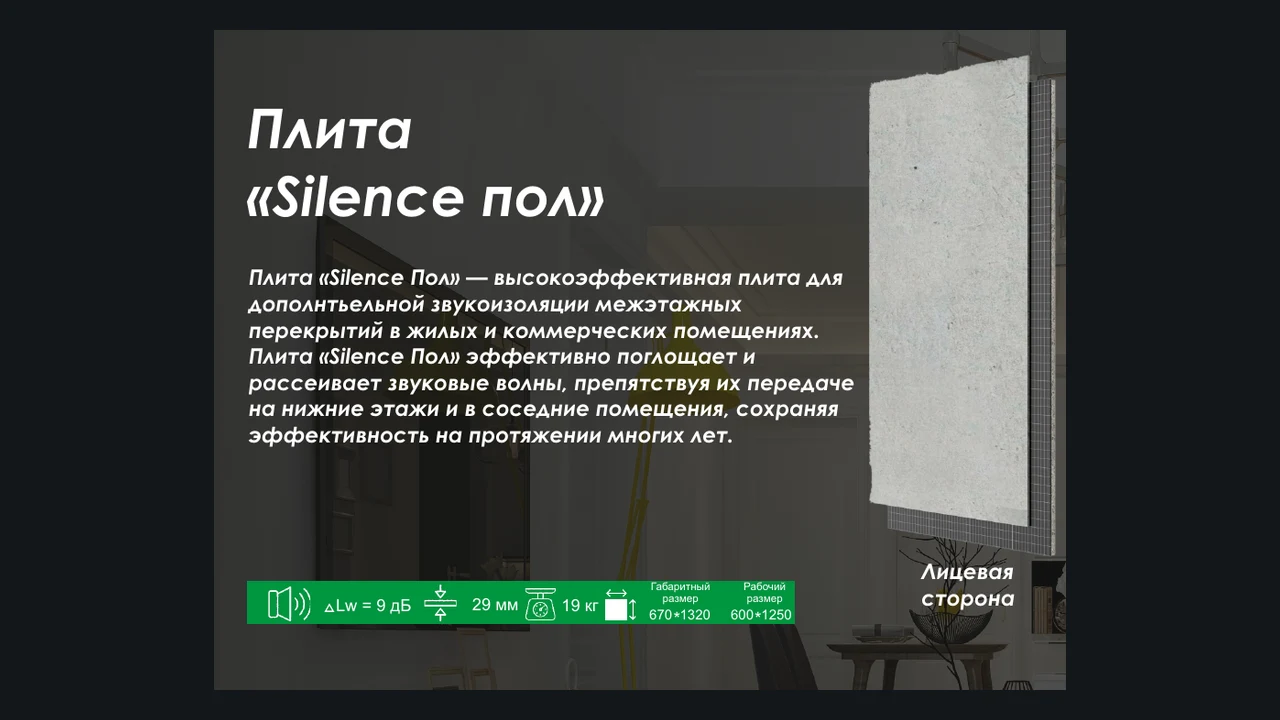
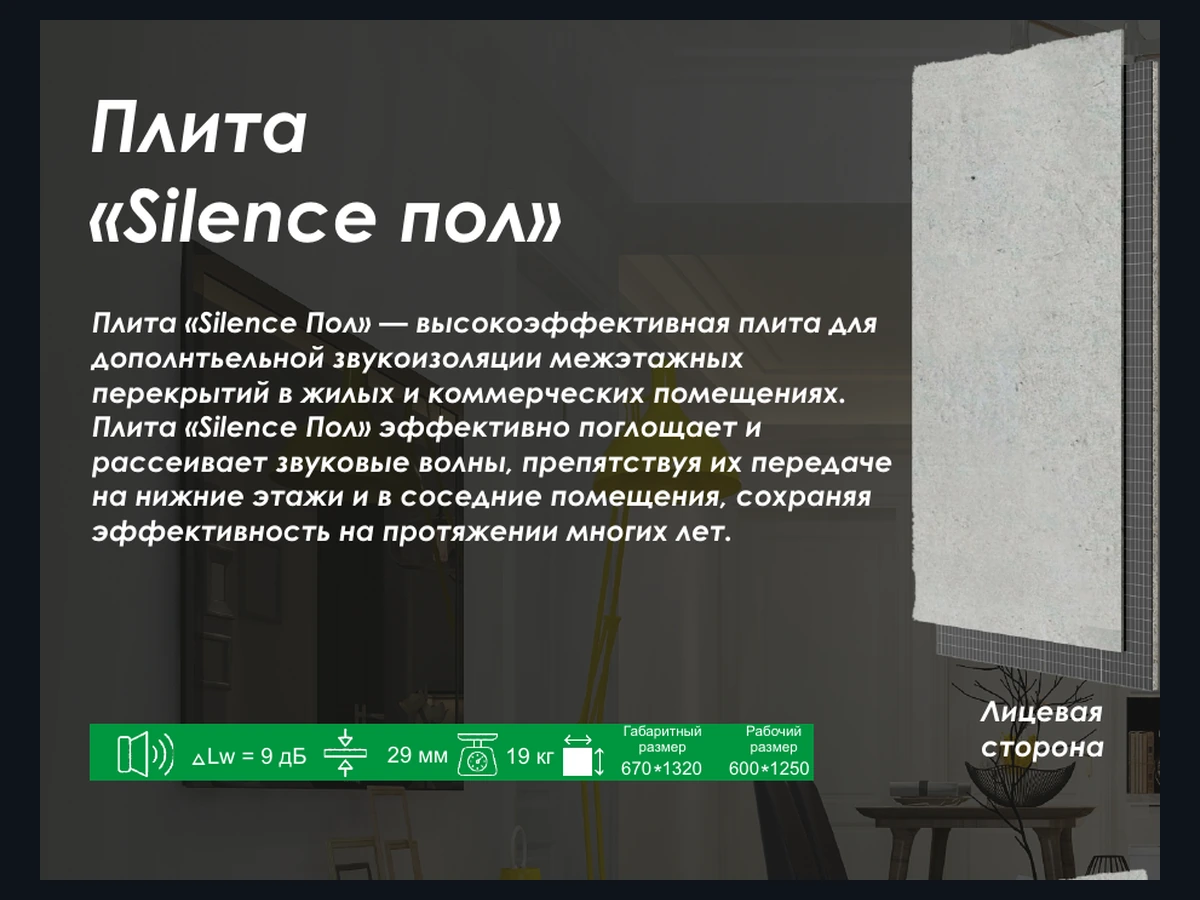
FF3

diff --git a/index.html b/index.html
@@ -181,16 +181,16 @@
           </div>
           <div class="presentation-carousel__viewport">
             <div class="presentation-carousel__track" data-carousel-track>
-              <article class="presentation-slide"><img src="assets/journal_slides/journal-04.webp" alt="SoundFiber"><div class="presentation-slide__caption"><h2>SoundFiber</h2><p>Акустическое нетканое иглопробивное полотно с высокими звукопоглощающими и демпфирующими свойствами.</p></div></article>
-              <article class="presentation-slide"><img src="assets/journal_slides/journal-05.webp" alt="VibroGuard"><div class="presentation-slide__caption"><h2>VibroGuard</h2><p>Композитный лист с демпфирующим слоем для снижения вибраций и воздушного шума.</p></div></article>
-              <article class="presentation-slide"><img src="assets/journal_slides/journal-06.webp" alt="Панель Silence стена"><div class="presentation-slide__caption"><h2>Панель «Silence стена»</h2><p>Панель дополнительной звукоизоляции стен с индексом Rw до 16 дБ в зависимости от монтажа.</p></div></article>
-              <article class="presentation-slide"><img src="assets/journal_slides/journal-07.webp" alt="Панель Silence потолок/стена"><div class="presentation-slide__caption"><h2>Панель «Silence потолок/стена»</h2><p>Решение для потолков и стен: многослойная структура, быстрый монтаж и готовность к чистовой отделке.</p></div></article>
-              <article class="presentation-slide"><img src="assets/journal_slides/journal-08.webp" alt="Плита Silence пол"><div class="presentation-slide__caption"><h2>Плита «Silence пол»</h2><p>Плита для межэтажных перекрытий, помогающая снизить передачу ударного шума на нижние этажи.</p></div></article>
-              <article class="presentation-slide"><img src="assets/journal_slides/journal-09.webp" alt="EchoGuard"><div class="presentation-slide__caption"><h2>EchoGuard</h2><p>Трёхслойная акустическая панель для шумо- и виброизоляции жилых и офисных помещений.</p></div></article>
-              <article class="presentation-slide"><img src="assets/journal_slides/journal-12.webp" alt="AcousticWood Rhomb and Hexa"><div class="presentation-slide__caption"><h2>AcousticWood Rhomb / Hexa</h2><p>Декоративно-акустические панели из натуральных материалов для выразительных интерьерных стен.</p></div></article>
-              <article class="presentation-slide"><img src="assets/journal_slides/journal-13.webp" alt="AcousticWood Line and Art"><div class="presentation-slide__caption"><h2>AcousticWood Line / Art</h2><p>Линейный рельеф и художественная композиция свободной формы для современных интерьеров.</p></div></article>
-              <article class="presentation-slide"><img src="assets/journal_slides/journal-14.webp" alt="ReverBoard Spiral and Quad"><div class="presentation-slide__caption"><h2>ReverBoard Spiral / Quad</h2><p>Интерьерные акустические панели с трёхмерной структурой для стен и потолков.</p></div></article>
-              <article class="presentation-slide"><img src="assets/journal_slides/journal-15.webp" alt="ReverBoard Rhomb and Hexa"><div class="presentation-slide__caption"><h2>ReverBoard Rhomb / Hexa</h2><p>Геометрические решения для модульных композиций и акцентных интерьерных зон.</p></div></article>
+              <article class="presentation-slide"><img src="assets/journal_slides/journal-04.webp" alt="SoundFiber — информация из журнала SILENCE"></article>
+              <article class="presentation-slide"><img src="assets/journal_slides/journal-05.webp" alt="VibroGuard — информация из журнала SILENCE"></article>
+              <article class="presentation-slide"><img src="assets/journal_slides/journal-06.webp" alt="Панель Silence стена — информация из журнала SILENCE"></article>
+              <article class="presentation-slide"><img src="assets/journal_slides/journal-07.webp" alt="Панель Silence потолок/стена — информация из журнала SILENCE"></article>
+              <article class="presentation-slide"><img src="assets/journal_slides/journal-08.webp" alt="Плита Silence пол — информация из журнала SILENCE"></article>
+              <article class="presentation-slide"><img src="assets/journal_slides/journal-09.webp" alt="EchoGuard — информация из журнала SILENCE"></article>
+              <article class="presentation-slide"><img src="assets/journal_slides/journal-12.webp" alt="AcousticWood Rhomb / Hexa — информация из журнала SILENCE"></article>
+              <article class="presentation-slide"><img src="assets/journal_slides/journal-13.webp" alt="AcousticWood Line / Art — информация из журнала SILENCE"></article>
+              <article class="presentation-slide"><img src="assets/journal_slides/journal-14.webp" alt="ReverBoard Spiral / Quad — информация из журнала SILENCE"></article>
+              <article class="presentation-slide"><img src="assets/journal_slides/journal-15.webp" alt="ReverBoard Rhomb / Hexa — информация из журнала SILENCE"></article>
             </div>
             <button class="presentation-carousel__nav presentation-carousel__nav--prev" type="button" data-carousel-prev aria-label="Предыдущий слайд">‹</button>
             <button class="presentation-carousel__nav presentation-carousel__nav--next" type="button" data-carousel-next aria-label="Следующий слайд">›</button>

diff --git a/js/ui.presentation-carousel.js b/js/ui.presentation-carousel.js
@@ -16,59 +16,83 @@
     var timer = null;
     var reduceMotion = global.matchMedia && global.matchMedia('(prefers-reduced-motion: reduce)').matches;
 
-    function show(i) {
+    function getLeft(i) {
+      return slides[i] ? slides[i].offsetLeft - track.offsetLeft : 0;
+    }
+
+    function renderDots() {
+      if (!dotsHost) return;
+      Array.prototype.forEach.call(dotsHost.children, function (dot, idx) {
+        var active = idx === index;
+        dot.classList.toggle('presentation-carousel__dot--active', active);
+        dot.setAttribute('aria-pressed', active ? 'true' : 'false');
+      });
+    }
+
+    function show(i, behavior) {
       index = (i + slides.length) % slides.length;
-      var viewport = root.querySelector('.presentation-carousel__viewport');
-      var target = slides[index].offsetLeft;
-      var maxShift = Math.max(0, track.scrollWidth - (viewport ? viewport.clientWidth : 0));
-      target = Math.min(target, maxShift);
-      track.style.transform = 'translateX(' + (-target) + 'px)';
-      if (dotsHost) {
-        Array.prototype.forEach.call(dotsHost.children, function (dot, idx) {
-          var active = idx === index;
-          dot.classList.toggle('presentation-carousel__dot--active', active);
-          dot.setAttribute('aria-pressed', active ? 'true' : 'false');
-        });
-      }
+      track.scrollTo({ left: getLeft(index), behavior: behavior || 'smooth' });
+      renderDots();
       if (global.SILENCE_TRACK) global.SILENCE_TRACK('presentation_slide_view', { value: String(index + 1) });
     }
 
     function stop() {
       if (timer) { global.clearInterval(timer); timer = null; }
     }
+
     function start() {
       stop();
-      if (reduceMotion) return;
-      timer = global.setInterval(function () { show(index + 1); }, 6000);
+      if (reduceMotion || slides.length < 2) return;
+      timer = global.setInterval(function () { show(index + 1, 'smooth'); }, 5000);
+    }
+
+    function findClosestIndex() {
+      var current = track.scrollLeft;
+      var best = 0;
+      var bestDelta = Infinity;
+      slides.forEach(function (slide, idx) {
+        var delta = Math.abs(getLeft(idx) - current);
+        if (delta < bestDelta) {
+          bestDelta = delta;
+          best = idx;
+        }
+      });
+      index = best;
+      renderDots();
     }
 
     if (dotsHost) {
       dotsHost.innerHTML = '';
-      slides.forEach(function (slide, idx) {
+      slides.forEach(function (_, idx) {
         var dot = document.createElement('button');
         dot.type = 'button';
         dot.className = 'presentation-carousel__dot' + (idx === 0 ? ' presentation-carousel__dot--active' : '');
         dot.setAttribute('aria-label', 'Слайд ' + (idx + 1));
         dot.setAttribute('aria-pressed', idx === 0 ? 'true' : 'false');
-        dot.addEventListener('click', function () { show(idx); start(); });
+        dot.addEventListener('click', function () { show(idx, 'smooth'); start(); });
         dotsHost.appendChild(dot);
       });
     }
 
-    if (prev) prev.addEventListener('click', function () { show(index - 1); start(); });
-    if (next) next.addEventListener('click', function () { show(index + 1); start(); });
+    if (prev) prev.addEventListener('click', function () { show(index - 1, 'smooth'); start(); });
+    if (next) next.addEventListener('click', function () { show(index + 1, 'smooth'); start(); });
+
+    var scrollTimer = null;
+    track.addEventListener('scroll', function () {
+      if (scrollTimer) global.clearTimeout(scrollTimer);
+      scrollTimer = global.setTimeout(findClosestIndex, 80);
+    }, { passive: true });
 
     root.addEventListener('mouseenter', stop);
     root.addEventListener('mouseleave', start);
     root.addEventListener('focusin', stop);
     root.addEventListener('focusout', start);
 
-    show(0);
+    show(0, 'auto');
     start();
   }
 
   document.addEventListener('DOMContentLoaded', function () {
-    var root = document.querySelector('[data-presentation-carousel]');
-    initCarousel(root);
+    initCarousel(document.querySelector('[data-presentation-carousel]'));
   });
 }(window));

diff --git a/css/components.css b/css/components.css
@@ -930,18 +930,16 @@ body.no-scroll { overflow: hidden; }
   .object-zones__tabs { overflow-x:auto; flex-wrap:nowrap; padding-bottom:4px; }
 }
 
-/* v19 — static presentation carousel: visible even if carousel JS fails */
-.presentation-carousel { display:flex; flex-direction:column; gap:var(--space-4); max-width:1120px; margin:0 auto; }
+/* v21 — compact journal carousel with pre-cropped PDF slides */
+.presentation-carousel { display:flex; flex-direction:column; gap:var(--space-5); max-width:1120px; margin:0 auto; }
 .presentation-carousel__head { max-width:820px; display:flex; flex-direction:column; gap:var(--space-3); }
 .presentation-carousel__title { font-size:clamp(1.9rem,4vw,3rem); line-height:1.04; letter-spacing:-.03em; max-width:18ch; }
 .presentation-carousel__lead { max-width:64ch; }
-.presentation-carousel__viewport { position:relative; overflow:hidden; border:1px solid var(--border); border-radius:var(--radius-lg); box-shadow:var(--shadow-lg); background:var(--bg-raised); }
-.presentation-carousel__track { display:flex; width:100%; gap:18px; transition:transform 420ms var(--ease); padding:18px; }
-.presentation-slide { flex:0 0 78%; min-width:78%; position:relative; aspect-ratio:16/9; overflow:hidden; background:var(--bg-overlay); border-radius:calc(var(--radius-lg) - 6px); border:1px solid var(--border); }
-.presentation-slide > img { width:100%; height:100%; object-fit:cover; }
-.presentation-slide__caption { position:absolute; left:18px; right:18px; bottom:18px; max-width:min(620px,88%); padding:16px 18px; border-radius:var(--radius-md); background:color-mix(in srgb, var(--bg-overlay) 90%, transparent); border:1px solid color-mix(in srgb, var(--border) 80%, transparent); backdrop-filter:blur(8px); display:flex; flex-direction:column; gap:8px; }
-.presentation-slide__caption h2 { font-size:clamp(1.1rem,1.8vw,1.45rem); }
-.presentation-slide__caption p { color:var(--text-muted); font-size:var(--fs-caption); }
+.presentation-carousel__viewport { position:relative; border:1px solid var(--border); border-radius:var(--radius-lg); box-shadow:var(--shadow-lg); background:var(--bg-raised); }
+.presentation-carousel__track { display:flex; gap:18px; overflow-x:auto; scroll-snap-type:x mandatory; scroll-behavior:smooth; padding:18px; scrollbar-width:none; }
+.presentation-carousel__track::-webkit-scrollbar { display:none; }
+.presentation-slide { flex:0 0 min(760px, 78vw); scroll-snap-align:start; aspect-ratio:4 / 3; overflow:hidden; background:#0E131B; border-radius:calc(var(--radius-lg) - 6px); border:1px solid var(--border); display:flex; align-items:center; justify-content:center; }
+.presentation-slide > img { width:100%; height:100%; object-fit:contain; display:block; }
 .presentation-carousel__nav { position:absolute; top:50%; transform:translateY(-50%); z-index:4; width:42px; height:42px; border-radius:999px; display:flex; align-items:center; justify-content:center; background:color-mix(in srgb, var(--bg-overlay) 88%, transparent); border:1px solid var(--border); font-size:28px; line-height:1; }
 .presentation-carousel__nav--prev { left:14px; }
 .presentation-carousel__nav--next { right:14px; }
@@ -960,8 +958,7 @@ body.no-scroll { overflow: hidden; }
 @media (max-width:720px) {
   .presentation-carousel__title { font-size:clamp(1.6rem,8vw,2.4rem); }
   .presentation-carousel__track { padding:14px; gap:14px; }
-  .presentation-slide { aspect-ratio:4/5; flex-basis:88%; min-width:88%; }
-  .presentation-slide__caption { max-width:none; left:14px; right:14px; bottom:14px; }
+  .presentation-slide { flex-basis:88%; aspect-ratio:4 / 5; }
   .presentation-carousel__nav { width:38px; height:38px; }
   .presentation-projects { grid-template-columns:1fr; }
 }
